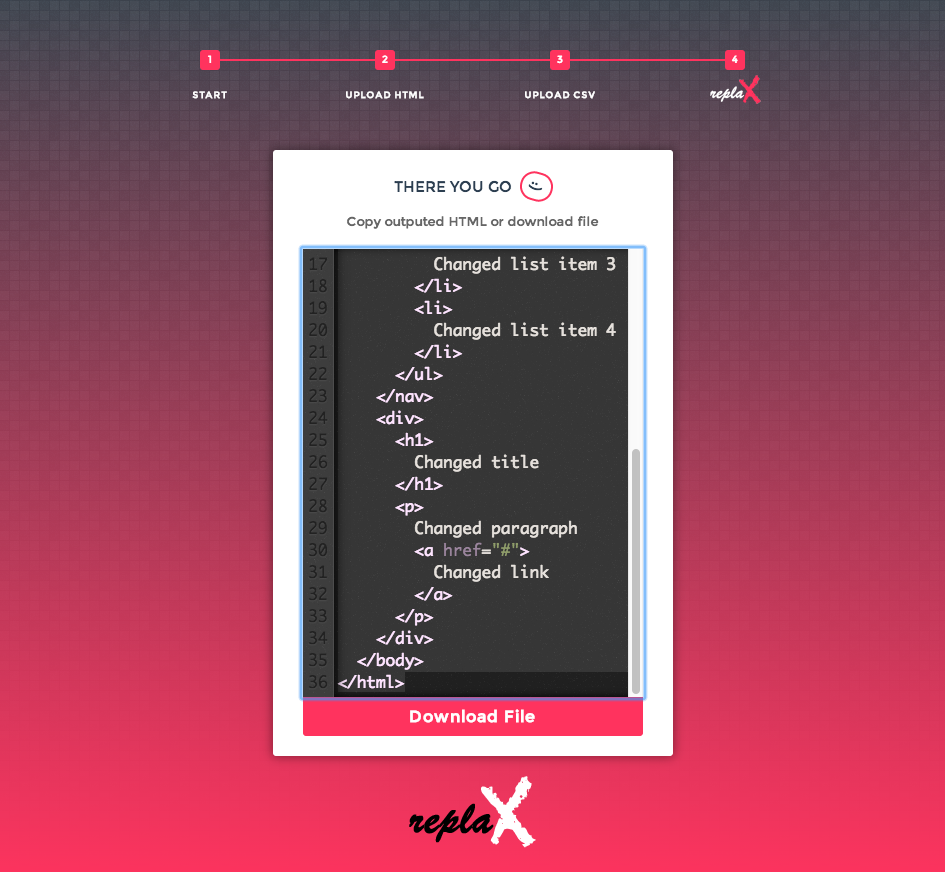
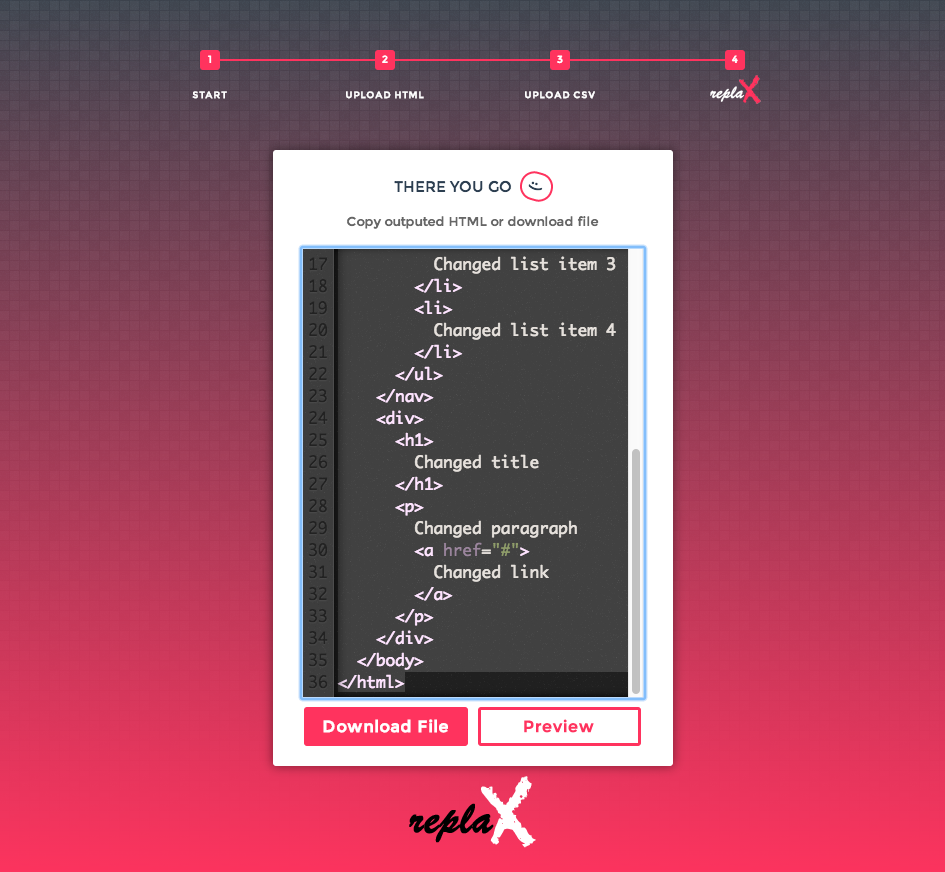
Feature (#5)
Added possibility to preview the outputted HTML.

Changed region(s): [[0.2762, 0.7741, 0.7365, 0.8979]]

diff --git a/assets/css/main.css b/assets/css/main.css
@@ -289,15 +289,15 @@ nav #progressbar li.active:before, nav #progressbar li.active:after {
 #msform fieldset .action-button:hover, #msform fieldset .action-button:focus, #msform fieldset .action-button:active {
   background: #2c3e50;
 }
-/* line 165, ../sass/main.scss */
-#msform fieldset .action-button.previous, #msform fieldset .action-button.next2 {
-  width: 48%;
+/* line 166, ../sass/main.scss */
+#msform fieldset .action-button.previous, #msform fieldset .action-button.half, #msform fieldset .action-button.half-alt {
+  width: 48% !important;
 }
-/* line 169, ../sass/main.scss */
-#msform fieldset .action-button.next2 {
+/* line 170, ../sass/main.scss */
+#msform fieldset .action-button.half {
   margin-left: 6px;
 }
-/* line 173, ../sass/main.scss */
+/* line 174, ../sass/main.scss */
 #msform fieldset .action-button.action-button-alt {
   padding: 7px 5px;
   color: #ff335e;
@@ -305,33 +305,40 @@ nav #progressbar li.active:before, nav #progressbar li.active:after {
   background: white;
   box-sizing: border-box;
 }
-/* line 182, ../sass/main.scss */
+/* line 183, ../sass/main.scss */
 #msform fieldset .action-button.action-button-alt:hover, #msform fieldset .action-button.action-button-alt:focus, #msform fieldset .action-button.action-button-alt:active {
   color: #2c3e50;
   border: 3px solid #2c3e50;
 }
-/* line 187, ../sass/main.scss */
+/* line 188, ../sass/main.scss */
 #msform fieldset .action-button.action-button-alt:disabled {
   color: #ffe5eb;
   border-color: #ffe5eb;
   background: white;
 }
-/* line 194, ../sass/main.scss */
+/* line 195, ../sass/main.scss */
 #msform fieldset .action-button.download {
   width: 100%;
-  margin: 0 0 10px;
   display: block;
-  -webkit-border-radius: 0 0 3px 3px;
-  -moz-border-radius: 0 0 3px 3px;
-  -ms-border-radius: 0 0 3px 3px;
-  -o-border-radius: 0 0 3px 3px;
-  border-radius: 0 0 3px 3px;
 }
-/* line 202, ../sass/main.scss */
-#msform fieldset .action-button.download:link, #msform fieldset .action-button.download:visited {
+/* line 200, ../sass/main.scss */
+#msform fieldset .action-button.result {
+  margin-bottom: 0;
+  display: inline-block;
+}
+/* line 206, ../sass/main.scss */
+#msform fieldset .action-button.result, #msform fieldset .action-button.download {
+  -webkit-border-radius: 3px;
+  -moz-border-radius: 3px;
+  -ms-border-radius: 3px;
+  -o-border-radius: 3px;
+  border-radius: 3px;
+}
+/* line 210, ../sass/main.scss */
+#msform fieldset .action-button.result:link, #msform fieldset .action-button.result:visited, #msform fieldset .action-button.download:link, #msform fieldset .action-button.download:visited {
   text-decoration: none;
 }
-/* line 207, ../sass/main.scss */
+/* line 215, ../sass/main.scss */
 #msform fieldset .action-button:disabled {
   cursor: default;
   background: #ffe5eb;

diff --git a/index.html b/index.html
@@ -67,7 +67,7 @@
         <span>OR</span>
         <textarea id="pastehtml" placeholder="Paste your HTML here"></textarea>
         <input type="button" name="previous" class="previous action-button" value="Previous" />
-        <input type="button" name="next" class="next next2 action-button" value="Next" disabled />
+        <input type="button" name="next" class="next half action-button" value="Next" disabled />
       </fieldset>
 
       <fieldset class="fs-step-3">
@@ -87,7 +87,7 @@
         <span>OR</span>
         <textarea id="copycsv"></textarea>
         <input type="button" name="previous" class="previous action-button" value="Previous" />
-        <input type="button" name="next" class="next next2 action-button" value="Next" disabled />
+        <input type="button" name="next" class="next half action-button" value="Next" disabled />
       </fieldset>
 
       <fieldset class="fs-step-4">
@@ -95,14 +95,15 @@
         <h3 class="fs-subtitle">Drag and drop or choose file</h3>
         <input type="file" id="uploadcsv" accept=".csv" />
         <input type="button" name="previous" class="previous action-button" value="Previous" />
-        <input type="button" name="run" class="run next next2 action-button action-button-alt" value="Run" disabled/>
+        <input type="button" name="run" class="run next half action-button action-button-alt" value="Run" disabled/>
       </fieldset>
 
       <fieldset class="fs-step-5">
         <h2 class="fs-title">There you go</h2>
         <h3 class="fs-subtitle">Copy outputed HTML or download file</h3>
         <div id="result"></div>
-        <a href="" class="download action-button" download="replaX.html">Download File</a>
+        <a href="" class="result half-alt download action-button" download="replaX.html">Download File</a>
+        <a href="" class="result half half preview action-button action-button-alt" target="_blank">Preview</a>
       </fieldset>
     </form>
     <!-- /FORM -->

diff --git a/assets/sass/main.scss b/assets/sass/main.scss
@@ -162,11 +162,12 @@ nav {
 			}
 
 			&.previous,
-			&.next2 {
-				width: 48%;
+			&.half,
+			&.half-alt {
+				width: 48% !important;
 			}
 
-			&.next2 {
+			&.half {
 				margin-left: 6px;
 			}
 
@@ -193,10 +194,17 @@ nav {
 
 			&.download {
 				width: 100%;
-				margin: 0 0 10px;
 				display: block;
-				
-				@include border-radius(0 0 3px 3px);
+			}
+			
+			&.result {
+				margin-bottom: 0;
+				display: inline-block;
+			}
+
+			&.result,
+			&.download {				
+				@include border-radius(3px);
 
 				&:link,
 				&:visited {

diff --git a/assets/js/script.js b/assets/js/script.js
@@ -199,6 +199,7 @@ $(".download").click(function() {
 $(".run").click(function() {
   editor.setValue($.trim(htmlData));
   editor.autoFormatRange({line:0, ch:0}, {line:editor.lineCount()-1, ch:0});
+  $(".preview").attr('href', "data:text/html;charset=UTF-8," + encodeURIComponent(htmlData));
   editor.execCommand("selectAll");
   editor.focus();
 });
